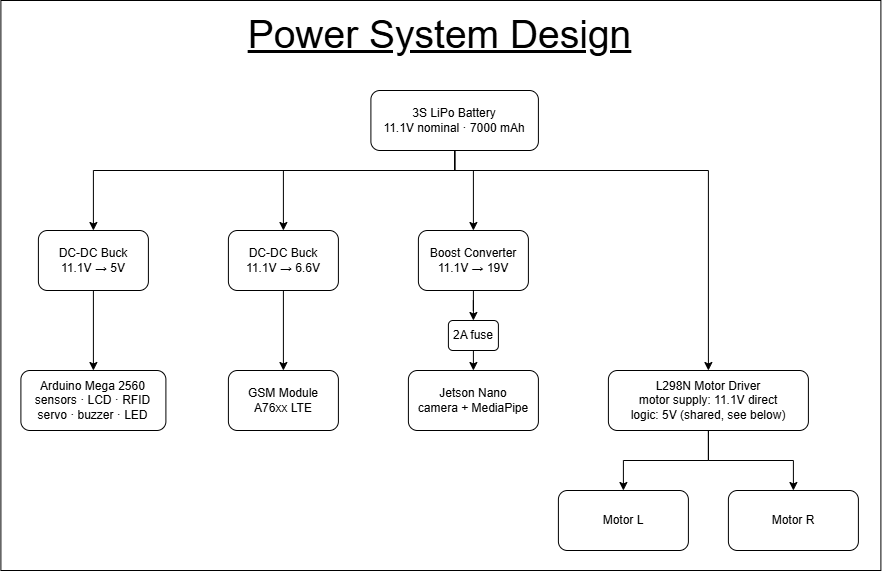
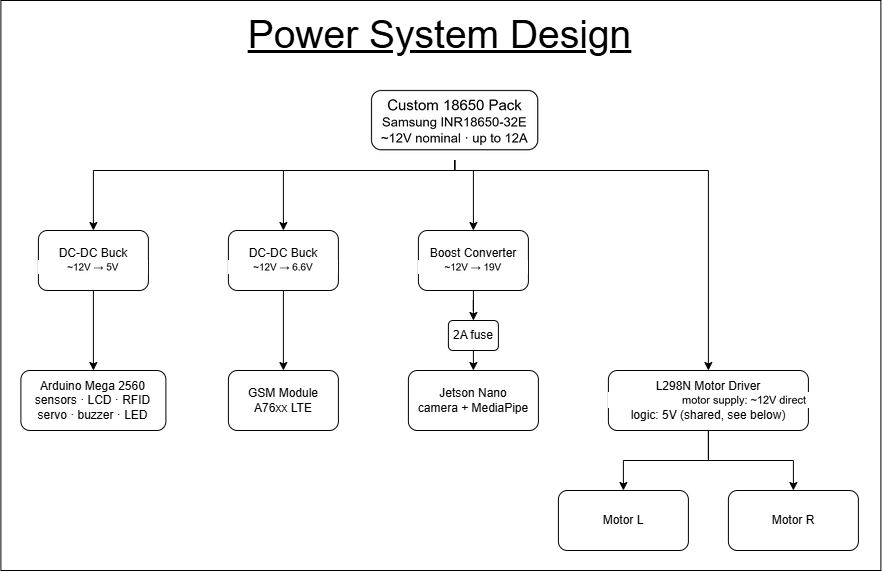
Correct battery pack info site-wide; extend Appendix E through M-04
- Corrected the battery description across the site (hardware.html,
  docs/index.html, gallery.html, images/index.html, research.html) from
  the old 3S LiPo spec to the real custom 18650 pack (Samsung
  INR18650-32E, ~12V / up to 12A), including redrawn text in both the
  System Architecture Block Diagram and the Power System Design diagram.
- a-wiring-diagram.html / appendix/index.html: removed the stale
  "Draft -- from thesis" tag and added the real encoder pin mapping
  (left: 14/15, right: A8/A9).
- e-raw-test-results.html (Appendix E): extended through M-04, including
  the M-01/M-02 net-drift summary card and updated Pass/Partial counts.
- blog/week-15.html: testing-progress update.

diff --git a/CARA/appendix/e-raw-test-results.html b/CARA/appendix/e-raw-test-results.html
@@ -35,13 +35,14 @@
   </div>
 
   <h2 style="margin-top:0;">Formal Test Log — Live Robot Testing <span class="tag tag-amber" style="margin-left:.5rem; vertical-align:middle;">In progress</span></h2>
-  <p>The final testing stage follows a 115-test plan covering hardware, perception, motion, fall detection, GSM alerting and the integrated system. Each test has a written procedure and a measurable pass criterion, and is recorded with its actual result and evidence. This page lists only the tests carried out so far; results are transcribed as recorded in the test sheet (updated 22 September 2026), and more are added as testing continues.</p>
+  <p>The final testing stage follows a 115-test plan covering hardware, perception, motion, fall detection, GSM alerting and the integrated system. Each test has a written procedure and a measurable pass criterion, and is recorded with its actual result and evidence. This page lists only the tests carried out so far; results are transcribed as recorded in the test sheet (updated 23 September 2026), and more are added as testing continues.</p>
 
-  <div class="grid-4" style="margin-top:1.25rem;">
+  <div class="grid-4" style="margin-top:1.25rem; grid-template-columns:repeat(5,1fr);">
     <div class="card"><h4>Planned</h4><p style="font-size:1.4rem; font-weight:700; color:var(--primary); margin:0;">115</p></div>
-    <div class="card"><h4>Pass</h4><p style="font-size:1.4rem; font-weight:700; color:var(--green); margin:0;">5</p></div>
-    <div class="card"><h4>Partial</h4><p style="font-size:1.4rem; font-weight:700; color:var(--amber); margin:0;">4</p></div>
-    <div class="card"><h4>Not yet run</h4><p style="font-size:1.4rem; font-weight:700; color:var(--muted); margin:0;">106</p></div>
+    <div class="card"><h4>Pass</h4><p style="font-size:1.4rem; font-weight:700; color:var(--green); margin:0;">9</p></div>
+    <div class="card"><h4>Partial</h4><p style="font-size:1.4rem; font-weight:700; color:var(--amber); margin:0;">5</p></div>
+    <div class="card"><h4>Fail</h4><p style="font-size:1.4rem; font-weight:700; color:#ef4444; margin:0;">2</p></div>
+    <div class="card"><h4>Not yet run</h4><p style="font-size:1.4rem; font-weight:700; color:var(--muted); margin:0;">99</p></div>
   </div>
 
   <h3>Stage 1 — Hardware &amp; Component Verification</h3>
@@ -56,6 +57,7 @@
         <tr><td>H-03</td><td>Camera operation</td><td><span class="tag tag-green">Pass</span></td><td><a href="#h-03">Screenshot</a></td></tr>
         <tr><td>H-04</td><td>16×2 LCD operation</td><td><span class="tag tag-green">Pass</span></td><td><a href="#h-04">Photo</a></td></tr>
         <tr><td>H-05</td><td>4×4 keypad operation</td><td><span class="tag tag-amber">Partial</span></td><td><a href="#h-05">5 photos</a></td></tr>
+        <tr><td>H-11</td><td>Motor operation</td><td><span class="tag tag-green">Pass</span></td><td><a href="#h-11">See M-01/M-02</a></td></tr>
       </tbody>
     </table>
   </div>
@@ -129,6 +131,13 @@
     </div>
   </div>
 
+  <div id="h-11" class="card" style="margin-top:1rem;">
+    <h4>H-11 — Motor operation <span class="tag tag-green" style="margin-left:.4rem;">Pass</span></h4>
+    <p><strong>Pass criterion:</strong> all 4 wheels turn in the commanded direction; both sides drive "forward" together (no fighting pair).</p>
+    <p><strong>Recorded result:</strong> confirmed via the M-01 (forward) and M-02 (reverse) motion trials below — all four wheels drove in the commanded direction on every trial, with both L298N channels driven at matching PWM throughout.</p>
+    <p style="font-size:.78rem; color:var(--muted); font-family:var(--font-mono); margin:0;">Evidence: same runs as M-01/M-02 (22 Sep 2026) — see below.</p>
+  </div>
+
   <hr style="margin:2.5rem 0;">
 
   <h3>Stage 2 — Motion &amp; Obstacle Verification</h3>
@@ -143,6 +152,8 @@
         <tr><td>M-02</td><td>Reverse movement</td><td><span class="tag tag-amber">Partial</span></td><td><a href="#m-02">CSV + 5 videos</a></td></tr>
         <tr><td>N-02</td><td>Rear obstacle detection <span style="color:var(--muted);">(incidental)</span></td><td><span class="tag tag-amber">Partial</span></td><td><a href="#n-02">CSV rows</a></td></tr>
         <tr><td>N-04</td><td>Emergency stop mid-motion <span style="color:var(--muted);">(incidental)</span></td><td><span class="tag tag-amber">Partial</span></td><td><a href="#n-04">CSV rows</a></td></tr>
+        <tr><td>M-03</td><td>Left/right turning</td><td><span class="tag tag-green">Pass</span></td><td><a href="#m-03">CSV + 6 videos</a></td></tr>
+        <tr><td>M-04</td><td>Speed control</td><td><span class="tag tag-amber">Partial</span></td><td><a href="#m-04">CSV + 9 videos</a></td></tr>
       </tbody>
     </table>
   </div>
@@ -156,7 +167,7 @@
     <h4>M-01 — Forward movement <span class="tag tag-green" style="margin-left:.4rem;">Pass</span></h4>
     <p><strong>Pass criterion:</strong> drives forward 5/5 times; <code>ENC:</code> line shows both sides near the target rpm; lateral drift within 15 cm over 3 m.</p>
     <p><strong>Recorded result:</strong> 5 of 5 trials drove forward correctly. Lateral drift 14–17 cm over the ~1 m test space (mean ~15.4 cm, ~15 cm/m). Settled left-wheel speed 80–86 rpm against a 78 rpm target (peak 86–88 rpm), settled PWM 103–112. In 2 of the 5 trials the ultrasonic obstacle guard auto-halted the robot mid-run before the manual STOP, because of the confined test space; the other 3 completed on manual STOP.</p>
-    <p style="font-size:.78rem; color:var(--muted); font-family:var(--font-mono); margin:0;">Logged: <code>run_logs/M01_1_20260922_182615.csv</code> to <code>M01_5_20260922_183059.csv</code> (22 Sep 2026).</p>
+    <p style="font-size:.78rem; color:var(--muted); font-family:var(--font-mono); margin:0;">Logged: <code>run_logs/M01/M01_1_20260922_182615.csv</code> to <code>M01_5_20260922_183059.csv</code> (22 Sep 2026).</p>
     <div class="post-image-grid" style="grid-template-columns:repeat(auto-fill,minmax(220px,1fr)); margin-top:1rem;">
       <div>
         <button type="button" class="yt-facade" data-yt="Njm1YsJ4Eo8" data-title="M-01 trial 1" aria-label="Play video: M-01 trial 1"
@@ -191,7 +202,7 @@
     <p><strong>Pass criterion:</strong> drives backward 5/5 times; lateral drift within 15 cm over 3 m.</p>
     <p><strong>Recorded result:</strong> all 5 trials eventually completed the reverse move. Lateral drift 15–17 cm over the ~1 m space (mean ~16.6 cm, ~17 cm/m). Reversing in the confined space repeatedly triggered the rear obstacle guard in every trial, needing 1–18 repeated backward commands per trial to complete (trial 4 was cleanest — 1 command, 0 blocks). Only trial 4 gave a stable settled-speed reading (89 rpm against an 86 rpm target); the others stopped too early or too often for a stable reading.</p>
     <p><strong>Why Partial, not Fail:</strong> this is the obstacle-safety system working as designed in a space too small for a clean reverse run, not a control fault. A repeat in open space (≥ 2 m clear behind) is recommended for an uninterrupted reading.</p>
-    <p style="font-size:.78rem; color:var(--muted); font-family:var(--font-mono); margin:0;">Logged: <code>run_logs/M02_1_20260922_185125.csv</code> to <code>M02_5_20260922_190014.csv</code> (22 Sep 2026).</p>
+    <p style="font-size:.78rem; color:var(--muted); font-family:var(--font-mono); margin:0;">Logged: <code>run_logs/M02/M02_1_20260922_185125.csv</code> to <code>M02_5_20260922_190014.csv</code> (22 Sep 2026).</p>
     <div class="post-image-grid" style="grid-template-columns:repeat(auto-fill,minmax(220px,1fr)); margin-top:1rem;">
       <div>
         <button type="button" class="yt-facade" data-yt="PeskV9NpKOc" data-title="M-02 trial 1" aria-label="Play video: M-02 trial 1"
@@ -228,7 +239,7 @@
       <img src="e-evidence/m01-m02-drift-summary.png" alt="Fan diagram showing the net lateral drift for all 10 M-01/M-02 trials, plotted from a common start point">
       <figcaption>Net drift for all 10 trials, each drawn as a straight line from the start point to the tape-measured end position.</figcaption>
     </figure>
-    <p style="margin-top:.8rem;"><strong>What this diagram is, and isn't:</strong> the vertical axis is the intended ~1 m test distance for every trial, not a distance computed from the encoder — the right wheel encoder isn't wired yet (still on D6/D44, no pin-change interrupt on the Mega), and a single working encoder can't resolve heading change, so the diagram shows net drift at the end of each trial, not the shape of the path actually driven between those two points.</p>
+    <p style="margin-top:.8rem;"><strong>What this diagram is, and isn't:</strong> the vertical axis is the intended ~1 m test distance for every trial, not a reconstructed trajectory — it shows net drift at the end of each trial, not the shape of the path actually driven between those two points.</p>
     <p style="font-size:.78rem; color:var(--muted); font-family:var(--font-mono); margin:0;">Drift values (cm): M-01 — 15, 14, 16, 15, 17. M-02 — 15, 17, 17, 17, 17.</p>
   </div>
 
@@ -244,6 +255,99 @@
     <p><strong>Pass criterion:</strong> emergency stop triggers mid-motion, stopping ≥ 15 cm from the obstacle.</p>
     <p><strong>Recorded result:</strong> the mid-motion emergency stop fired in 4 of 5 M-02 trials and 2 of 5 M-01 trials while driving in the confined test space, confirming the live obstacle check halts an in-progress move, not just a pre-move refusal. The exact triggering distance wasn't cleanly isolated per event — logged readings around the stop are mixed, some above 20 cm, likely a reading taken between samples — so the stopping <em>behaviour</em> is confirmed but the precise stopping distance is not. A dedicated run (drive at a fixed obstacle, tape-measure the actual stop distance) is recommended for a clean number.</p>
     <p style="font-size:.78rem; color:var(--muted); font-family:var(--font-mono); margin:0;">Incidental evidence from the M-01/M-02 logs above; no separate evidence file.</p>
+  </div>
+
+  <div id="m-03" class="card" style="margin-top:1rem;">
+    <h4>M-03 — Left/right turning <span class="tag tag-green" style="margin-left:.4rem;">Pass</span></h4>
+    <p><strong>Pass criterion:</strong> both directions turn the right way; angle achieved and any stall recorded.</p>
+    <p><strong>Recorded result:</strong> 3 of the planned 5 trials per direction were run (6 total), each held until the robot visually completed a 45° turn rather than for a fixed duration. All 6 trials turned the commanded direction, confirmed by encoder sign (negative on every left trial, positive on every right trial). Wheel RPM stayed in the 14–24 rpm range throughout every trial — low by design (the spin target is deliberately unreachable, so spins run at full PWM) but with no stall to 0 this time, an improvement on the −7 rpm stall seen in Week 15. One right-turn trial was interrupted mid-turn by the ultrasonic obstacle guard in the confined test space; the command was re-sent and the turn completed to 45° afterward.</p>
+    <p style="font-size:.78rem; color:var(--muted); font-family:var(--font-mono); margin:0;">Logged: <code>run_logs/M03/M03_L1/L2/L3</code>, <code>M03_R1/R2/R3</code> (23 Sep 2026).</p>
+    <div class="video-pending"><span class="vp-icon">🎬</span> 6 trial videos recorded (3 left-turn, 3 right-turn) — pending upload to YouTube. See the HTML comment below this block once the links are ready.</div>
+    <!--
+      VIDEO LINKS PENDING — M-03 (6 trial videos, not in this repo).
+      Once uploaded to YouTube, replace the .video-pending div above with a
+      .post-image-grid of six .yt-facade buttons, same pattern as M-01/M-02
+      above (data-yt="VIDEO_ID", thumbnail from i.ytimg.com/vi/VIDEO_ID/hqdefault.jpg).
+      Source files: Evidence/M03 Tests/Left Turn/20260923_090034.mp4,
+      _090243.mp4, _090441.mp4; Evidence/M03 Tests/Right Turn/20260923_085521.mp4,
+      _085802.mp4, _085910.mp4. The .yt-facade CSS/JS already exists on this page.
+    -->
+  </div>
+
+  <div id="m-04" class="card" style="margin-top:1rem;">
+    <h4>M-04 — Speed control <span class="tag tag-amber" style="margin-left:.4rem;">Partial</span></h4>
+    <p><strong>Pass criterion:</strong> measured rpm within ±15% of target after settling; overshoot &lt; 30%.</p>
+    <p><strong>Recorded result:</strong> 3 trials each at 3 commanded speeds (PWM 120, 187, 255), held ~3s. The commanded wheel speed tracked the ramp with no oscillation, but the ~3s hold was too short for the target to fully settle at the higher speeds, so the ±15% settled-error criterion couldn't be cleanly evaluated from this run. All 3 PWM-120 trials were also cut short early by the ultrasonic obstacle guard in the confined test space, same pattern as M-01/M-02.</p>
+    <p><strong>Why Partial, not Fail:</strong> no instability or runaway was observed at any speed — the shortfall is in dwell time, not control behaviour. A longer hold (5–6s) is recommended for a clean settled reading.</p>
+    <p style="font-size:.78rem; color:var(--muted); font-family:var(--font-mono); margin:0;">Logged: <code>run_logs/M04/M04_120/187/255_1/2/3</code> (23 Sep 2026).</p>
+    <div class="video-pending"><span class="vp-icon">🎬</span> 9 trial videos recorded (3 per speed level) — pending upload to YouTube. See the HTML comment below this block once the links are ready.</div>
+    <!--
+      VIDEO LINKS PENDING — M-04 (9 trial videos, not in this repo).
+      Same pattern as M-01/M-02/M-03 above once uploaded.
+      Source files: Evidence/M04/120/20260923_092718.mp4, _092939.mp4, _093029.mp4;
+      Evidence/M04/187/20260923_093245.mp4, _093433.mp4, _093531.mp4;
+      Evidence/M04/255/20260923_094423.mp4, _094532.mp4, _094623.mp4.
+    -->
+  </div>
+
+  <hr style="margin:2.5rem 0;">
+
+  <h3>Stage 2/3 — Person &amp; Band Tracking</h3>
+  <p style="font-size:.85rem; color:var(--muted); margin-top:-.5rem;">Both run stationary, motors off.</p>
+  <div class="table-wrap">
+    <table>
+      <thead>
+        <tr><th>ID</th><th>Test</th><th>Status</th><th>Evidence</th></tr>
+      </thead>
+      <tbody>
+        <tr><td>P-01</td><td>Single-person detection</td><td><span class="tag tag-crit">Fail</span></td><td><a href="#p-01">CSV + screenshots</a></td></tr>
+        <tr><td>B-01</td><td>Close-distance band detection</td><td><span class="tag tag-crit">Fail</span></td><td><a href="#b-01">CSV + screenshots</a></td></tr>
+      </tbody>
+    </table>
+  </div>
+
+  <div id="p-01" class="card" style="margin-top:1.5rem;">
+    <h4>P-01 — Single-person detection <span class="tag tag-crit" style="margin-left:.4rem;">Fail</span></h4>
+    <p><strong>Pass criterion:</strong> person detected in ≥ 95% of frames over 60s.</p>
+    <p><strong>Recorded result:</strong> 2 of the planned 3 trials run. Mid light: 79.1% lock over 65.8s. Low light: 32.4% lock over 72.3s, with one 31.7s total dropout (16.6s–48.3s) that recovered once brightness was raised — confirmed visually (no face box during the dropout, locked afterward). Neither trial reached the 95% target.</p>
+    <p style="font-size:.78rem; color:var(--muted); font-family:var(--font-mono); margin:0;">Logged: <code>run_logs/P01/</code> (23 Sep 2026); screenshots in <code>Evidence/P01/mid-light/</code> and <code>/low-light/</code>.</p>
+    <p style="font-size:.82rem; color:var(--muted); margin-top:.6rem;">Third trial (bright light) still pending.</p>
+  </div>
+
+  <div id="b-01" class="card" style="margin-top:1rem;">
+    <h4>B-01 — Close-distance band detection <span class="tag tag-crit" style="margin-left:.4rem;">Fail</span></h4>
+    <p><strong>Pass criterion:</strong> band detected ≥ 95% of frames at ~1 m.</p>
+    <p><strong>Recorded result:</strong> 0% band lock at 100cm (the row's ~1m target distance) over 32.8s — never detected once, confirmed visually (no band box in the screenshots at that distance). Also tested at 50cm (65.9% lock, well below target too) and 150cm (0%) — the usable range appears to be under 1m.</p>
+    <p style="font-size:.78rem; color:var(--muted); font-family:var(--font-mono); margin:0;">Logged: <code>run_logs/B01/</code> (23 Sep 2026); screenshots in <code>Evidence/B01/</code>.</p>
+  </div>
+
+  <hr style="margin:2.5rem 0;">
+
+  <h3>Stage 15 — Safety &amp; Alert Verification</h3>
+  <div class="table-wrap">
+    <table>
+      <thead>
+        <tr><th>ID</th><th>Test</th><th>Status</th><th>Evidence</th></tr>
+      </thead>
+      <tbody>
+        <tr><td>X-01</td><td>Panic button triggers an alert</td><td><span class="tag tag-green">Pass</span></td><td><a href="#x-01">—</a></td></tr>
+        <tr><td>X-02</td><td>Acknowledge an alert</td><td><span class="tag tag-green">Pass</span></td><td><a href="#x-02">—</a></td></tr>
+      </tbody>
+    </table>
+  </div>
+
+  <div id="x-01" class="card" style="margin-top:1.5rem;">
+    <h4>X-01 — Panic button triggers an alert <span class="tag tag-green" style="margin-left:.4rem;">Pass</span></h4>
+    <p><strong>Pass criterion:</strong> alert starts within 2s, 5/5.</p>
+    <p><strong>Recorded result:</strong> pressing <code>#</code> reliably triggers the alert (buzzer + "HELP IS COMING" LCD message) within ~2s, confirmed repeatedly during bench testing.</p>
+    <p style="font-size:.78rem; color:var(--muted); font-family:var(--font-mono); margin:0;">No evidence file captured this session (a video is planned for the next session).</p>
+  </div>
+
+  <div id="x-02" class="card" style="margin-top:1rem;">
+    <h4>X-02 — Acknowledge an alert <span class="tag tag-green" style="margin-left:.4rem;">Pass</span></h4>
+    <p><strong>Pass criterion:</strong> alert clears within 2s on both methods, 5/5.</p>
+    <p><strong>Recorded result:</strong> pressing <code>*</code> silences the alert within ~2s, confirmed repeatedly during the same bench session.</p>
+    <p style="font-size:.78rem; color:var(--muted); font-family:var(--font-mono); margin:0;">No evidence file captured this session (a video is planned for the next session).</p>
   </div>
 
   <hr style="margin:2.5rem 0;">

diff --git a/CARA/blog/week-15.html b/CARA/blog/week-15.html
@@ -97,7 +97,7 @@
     <p>The day ended with the pipeline left running disarmed — the robot can't move in that state — and the project's dissertation deadline (15 September) already behind it, with live testing carrying on.</p>
 
     <h2>Formal Testing Started</h2>
-    <p>The formal test plan began on 21 September with the hardware checks, and continued on the 22nd with the first motion tests — forward and reverse driving, run in a tighter space than planned, which also caught the obstacle guard stopping the robot mid-move. The evaluation chapter of the thesis was updated with these results too. Full results and evidence for every test run so far are in <a href="../appendix/e-raw-test-results.html">Appendix E — Raw Test Results</a>.</p>
+    <p>The formal test plan began on 21 September with the hardware checks, continued on the 22nd with the first motion tests — forward and reverse driving, run in a tighter space than planned, which also caught the obstacle guard stopping the robot mid-move — and through the 23rd with turning, speed control, motor operation, person and band tracking, and the panic-button alert path. Person detection and band detection both came out below their pass targets — a real finding, not a data problem — and the evaluation chapter of the thesis was updated with all of it. Full results and evidence for every test run so far are in <a href="../appendix/e-raw-test-results.html">Appendix E — Raw Test Results</a>.</p>
 
     <h2>What Did Not Go Well (So Far)</h2>
     <p>The first integrated drive attempt failed and its root cause — hot driver, no movement — is still unknown. The left wheel stalls in spins, the drive motors still look underpowered under load, the right encoder counts nothing and needs rewiring, the tilt servo doesn't physically move the camera (likely power again), keys 7, 8, 9 and C on the keypad are dead (so reminder times like 08:00 can't be typed in),the GSM module doesn't respond and needs its own supply, and serial garbling under motor load points at a real power or noise problem that the new battery hasn't solved. The heading-memory return and the wider centre band have only been checked offline. Older items are still open too: the RTC driver is unverified, the dashboard's admin password is still the default, and the custom pack has only been run in these first tests, not characterized under sustained load.</p>
@@ -117,6 +117,9 @@
           <tr><td>Run logger + 3 armed trials + tilt test recorded</td><td class="yes">✓ Complete</td></tr>
           <tr><td>Formal testing started — hardware checks H-01 to H-05 (<a href="../appendix/e-raw-test-results.html">Appendix E</a>)</td><td class="yes">✓ 4 pass, 1 partial (keys 7/8/9/C dead)</td></tr>
           <tr><td>Formal motion tests M-01 forward / M-02 reverse (<a href="../appendix/e-raw-test-results.html">Appendix E</a>)</td><td class="yes">✓ M-01 pass, M-02 partial (obstacle guard in confined space)</td></tr>
+          <tr><td>Formal tests M-03 turning / M-04 speed control (<a href="../appendix/e-raw-test-results.html">Appendix E</a>)</td><td class="yes">✓ M-03 pass, M-04 partial (short hold time)</td></tr>
+          <tr><td>Formal tests H-11 motor operation / X-01, X-02 panic-alert path (<a href="../appendix/e-raw-test-results.html">Appendix E</a>)</td><td class="yes">✓ all pass</td></tr>
+          <tr><td>Formal tests P-01 person detection / B-01 band detection (<a href="../appendix/e-raw-test-results.html">Appendix E</a>)</td><td class="no">✗ both below their pass targets</td></tr>
           <tr><td>First integrated drive test</td><td class="no">✗ Failed — cause undiagnosed</td></tr>
           <tr><td>Left wheel stall / underpowered drive motors</td><td class="no">⏳ In Progress</td></tr>
           <tr><td>Right encoder moved to A8/A9 (pin-change capable pins)</td><td class="no">⏳ In Progress</td></tr>

diff --git a/CARA/docs/index.html b/CARA/docs/index.html
@@ -199,9 +199,9 @@ footer a{color:var(--cyan);text-decoration:none}
           <tr><td>Servo ×1</td><td>MG90S 9g Micro</td><td>180° rotation, 1.8kg/cm torque · Pin 46</td><td>One-shot greeting wave gesture only — not a camera tilt/pan mechanism. There is no pan-tilt hardware on this robot; camera aiming (left/right) is done by rotating the chassis itself</td><td>$2–4</td></tr>
           <tr><td>Motor Driver</td><td>L298N Dual H-Bridge</td><td>2A per channel, PWM · IN1–4: 22,23,24,25 · ENA/ENB: 11,12 · two motors paralleled per channel</td><td>Motor direction and speed control</td><td>$3–8</td></tr>
           <tr><td>Geared Motors with Encoders ×4</td><td>6V 200RPM Gear Motor, 30:1, built-in optical encoder</td><td>6V, 200RPM, 1.7 kg/cm at load · encoders on 2 wheels: left pins 14/15, right pins A8/A9</td><td>Robot mobility; encoder feedback for wheel-speed control</td><td>$5–10 each</td></tr>
-          <tr><td>LiPo Battery</td><td>3S 11.1V 3000mAh</td><td>30C discharge, T-connector · primary power source</td><td>90+ minute full-load runtime</td><td>$15–30</td></tr>
+          <tr><td>Battery</td><td>Custom 18650 Pack (Samsung INR18650-32E)</td><td>~12V nominal, up to 12A · dedicated Li-ion charger (12V/2A) · primary power source</td><td>Replaces the original 3S LiPo (one cell failed). Full-load runtime not yet measured</td><td>Custom-built</td></tr>
           <tr><td>Buck Converters ×2</td><td>LM2596 Step-Down</td><td>Conv 1 → 5V (Arduino) · Conv 2 → 6.6V (GSM module regulated)</td><td>GSM module requires dedicated regulated 6.6V rail</td><td>$1–3 each</td></tr>
-          <tr><td>Boost Converter</td><td>XL6009 Step-Up</td><td>11.1V → 19V, 2A inline fuse</td><td>Powers the Jetson Nano</td><td>$1–3</td></tr>
+          <tr><td>Boost Converter</td><td>XL6009 Step-Up</td><td>~12V → 19V, 2A inline fuse</td><td>Powers the Jetson Nano</td><td>$1–3</td></tr>
           <tr style="opacity:.6;"><td>Temperature <span class="tag tag-amber">Postponed → v1.1</span></td><td>DS18B20</td><td>1-Wire digital probe, Pin 7 · −55°C to +125°C · needs 4.7kΩ pull-up to 5V</td><td>Room temperature monitoring, heatstroke SMS alert. Proposed for v1.0 but postponed to v1.1 — not implemented in the current build.</td><td>$1–3</td></tr>
           <tr style="opacity:.6;"><td>Cliff Sensors ×3 <span class="tag tag-amber">Postponed → v1.1</span></td><td>TCRT5000</td><td>IR reflection, Pins A0–A2</td><td>Floor edge / stair detection, prevent robot falling. Proposed for v1.0 but postponed to v1.1 — not implemented in the current build.</td><td>$1–2 each</td></tr>
           <tr><td>Status LED ×1</td><td>Standard single-colour</td><td>Pin 10, PWM-dimmable (brightness only, no RGB)</td><td>Visual status: gentle brightness pulse in IDLE, blink pattern during ALERT</td><td>&lt;$1</td></tr>

diff --git a/CARA/hardware.html b/CARA/hardware.html
@@ -265,16 +265,16 @@
       <tbody>
         <tr>
           <td>Main Battery</td>
-          <td>3S LiPo 11.1V 3000mAh</td>
-          <td>11.1V nominal · 30C discharge · T-connector · integrated protection PCB</td>
-          <td>Primary power source for all subsystems. 90+ minute runtime under full load</td>
-          <td>$15–30</td>
+          <td>Custom 18650 Pack (Samsung INR18650-32E cells)</td>
+          <td>~12V nominal · up to 12A output · dedicated Li-ion charger (100–240V AC in, 12V/2A out)</td>
+          <td>Primary power source for all subsystems. Replaces the original 3S LiPo pack (one cell failed). Runtime under full load not yet measured (battery-runtime test pending)</td>
+          <td>Custom-built</td>
         </tr>
         <tr>
           <td>Buck Converter 1</td>
           <td>LM2596 Step-Down</td>
           <td>Input 4.5–40V · Output adjustable · 3A max</td>
-          <td>Converts 11.1V → 5V regulated for Arduino Mega 2560</td>
+          <td>Converts ~12V → 5V regulated for Arduino Mega 2560</td>
           <td>$1–3</td>
         </tr>
         <tr>
@@ -288,7 +288,7 @@
           <td>Boost Converter</td>
           <td>XL6009 Step-Up</td>
           <td>Input 5–32V · Output adjustable · up to 4A</td>
-          <td>Converts 11.1V → 19V for the Jetson Nano, with a 2A inline fuse</td>
+          <td>Converts ~12V → 19V for the Jetson Nano, with a 2A inline fuse</td>
           <td>$1–3</td>
         </tr>
         <tr>
@@ -306,7 +306,7 @@
   <div class="code-block">
 <span class="c">// Power distribution diagram</span>
 
-<span class="k">3S LiPo 11.1V</span>
+<span class="k">Custom 18650 Pack ~12V</span> <span class="c">(Samsung INR18650-32E, up to 12A)</span>
     │
     ├── <span class="v">Buck Conv 1 → 5V</span> ─── Arduino Mega 2560
     │                              ├── PIR sensors × 2

diff --git a/CARA/appendix/index.html b/CARA/appendix/index.html
@@ -40,7 +40,7 @@
         <tr><th>Appendix</th><th>Content</th><th>Status</th></tr>
       </thead>
       <tbody>
-        <tr><td><a href="a-wiring-diagram.html">Appendix A — Wiring Diagram</a></td><td>Full Circuit Wiring Diagram — all Arduino pin assignments, power rails, and bus connections</td><td><span class="tag tag-amber">Draft — from thesis</span></td></tr>
+        <tr><td><a href="a-wiring-diagram.html">Appendix A — Wiring Diagram</a></td><td>Full Circuit Wiring Diagram — all Arduino pin assignments, power rails, and bus connections</td><td><span class="tag tag-blue">Confirmed</span></td></tr>
         <tr><td><a href="b-firmware-listing.html">Appendix B — Firmware Listing</a></td><td>Arduino Firmware Listing — complete 5-state machine code with all peripheral drivers (password-protected)</td><td><span class="tag tag-amber">In progress</span></td></tr>
         <tr><td><a href="c-fall-detection-node.html">Appendix C — Fall Detection Node</a></td><td>Python Fall Detection Node — full MediaPipe ROS node source code</td><td><span class="tag tag-amber">In progress</span></td></tr>
         <tr><td><a href="d-ethics-approval.html">Appendix D — Proposal Form &amp; Ethics Approval</a></td><td>PDE4445 project proposal submission (includes ethics approval sign-off)</td><td><span class="tag tag-blue">Submitted</span></td></tr>

diff --git a/CARA/appendix/a-wiring-diagram.html b/CARA/appendix/a-wiring-diagram.html
@@ -29,7 +29,7 @@
   </div>
 
   <div class="page-header">
-    <div class="page-label">Appendix A <span class="tag tag-amber" style="margin-left:.5rem;">Draft — from thesis</span></div>
+    <div class="page-label">Appendix A</div>
     <h1 class="page-title">Wiring Diagram</h1>
     <p class="page-subtitle">Full Circuit Wiring Diagram — all Arduino Mega 2560 pin assignments, power rails, and bus connections.</p>
   </div>
@@ -58,7 +58,7 @@
   </div>
 
   <div class="info-box amber" style="margin-top:1.5rem;">
-    <p><strong>Note:</strong> the LCD and RTC share SDA=20 on a bit-banged I2C bus rather than the hardware I2C pins (20/21) used conventionally — a workaround for a damaged I2C pin on this Mega, documented in Chapter 3.8 (Safety Design) / Limitations. Pulled directly from the thesis document (Appendix A) — treat as accurate but not yet the final submitted version.</p>
+    <p><strong>Note:</strong> the LCD and RTC share SDA=20 on a bit-banged I2C bus rather than the hardware I2C pins (20/21) used conventionally — a workaround for a damaged I2C pin on this Mega, documented in Chapter 3.8 (Safety Design) / Limitations.</p>
   </div>
 
   <div style="margin-top:2rem; display:flex; gap:1rem; flex-wrap:wrap;">

diff --git a/CARA/gallery.html b/CARA/gallery.html
@@ -280,10 +280,10 @@
     -->
 
     <div class="gallery-card">
-      <img src="assets/images/power-topology.png" alt="Power System Design block diagram: 3S LiPo battery feeding three converters (5V buck for Arduino, 6.6V buck for GSM, 19V boost with 2A fuse for Jetson Nano) plus a direct 11.1V line to the L298N motor driver">
+      <img src="assets/images/power-topology.png" alt="Power System Design block diagram: custom 18650 battery pack feeding three converters (5V buck for Arduino, 6.6V buck for GSM, 19V boost with 2A fuse for Jetson Nano) plus a direct ~12V line to the L298N motor driver">
       <div class="gallery-info">
         <h4>Power System Topology</h4>
-        <p>3S LiPo → buck converters (5V Arduino rail, 6.6V A7670C GSM rail) → boost converter (19V Jetson Nano rail) → L298N motor driver direct 11.1V.</p>
+        <p>Custom 18650 pack (~12V, up to 12A) → buck converters (5V Arduino rail, 6.6V A7670C GSM rail) → boost converter (19V Jetson Nano rail) → L298N motor driver direct ~12V. Replaces the original 3S LiPo pack after one cell failed.</p>
         <span class="fig-ref">Figure 3-6 · Thesis Chapter 3</span>
       </div>
     </div>

diff --git a/CARA/research.html b/CARA/research.html
@@ -70,6 +70,9 @@
   </div>
 
   <div id="report-view" style="display:none;">
+    <div class="info-box amber" style="margin-bottom:1.25rem;">
+      <p><strong>Note:</strong> this is a client-side lock for casual access only — not real security. Anyone who inspects the page source can still recover the file path. Treat it as "not meant to be browsed openly," not as confidential.</p>
+    </div>
     <iframe id="report-frame" src="reports/Thesis Report.pdf" title="CARA Full Thesis Report"></iframe>
     <p style="margin-top:.75rem; font-size:.82rem; color:var(--muted);">
       Viewer not loading? <a href="reports/Thesis Report.pdf" target="_blank">Open the PDF directly →</a>

diff --git a/CARA/images/index.html b/CARA/images/index.html
@@ -140,7 +140,7 @@ footer a{color:var(--cyan);text-decoration:none}
       </div>
       <div class="gallery-info">
         <h4>Power System Diagram</h4>
-        <p>3S 11.1V LiPo → Buck Conv 1 (5V Arduino) + Buck Conv 2 (6.6V A7670C GSM) + Boost Conv (19V Jetson Nano, XL6009) + L298N motor driver (11.1V direct). Power domain separation.</p>
+        <p>Custom 18650 pack (~12V, up to 12A) → Buck Conv 1 (5V Arduino) + Buck Conv 2 (6.6V A7670C GSM) + Boost Conv (19V Jetson Nano, XL6009) + L298N motor driver (~12V direct). Power domain separation.</p>
         <div class="source">Section 3.6 · Thesis Chapter 3</div>
       </div>
     </div>
